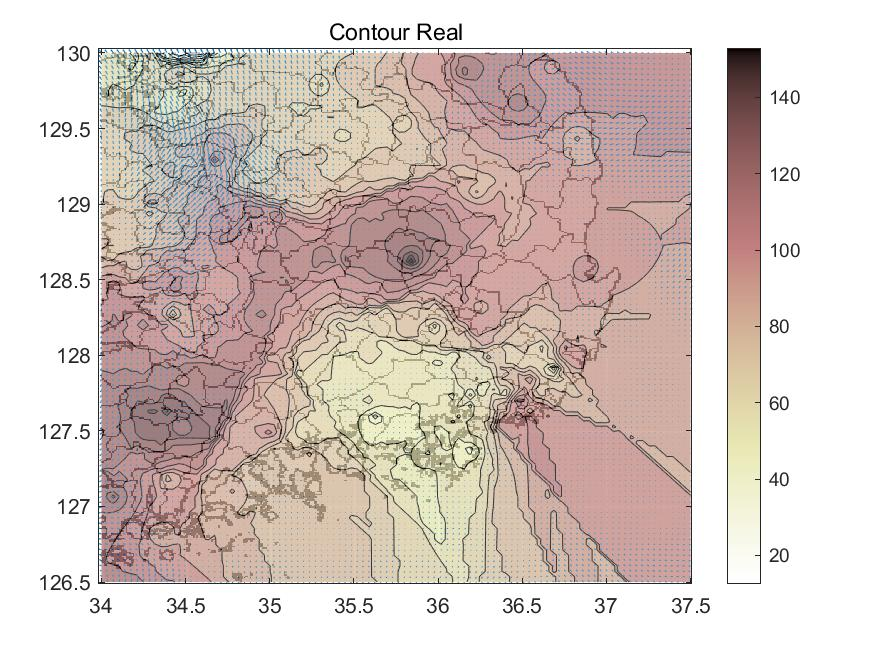
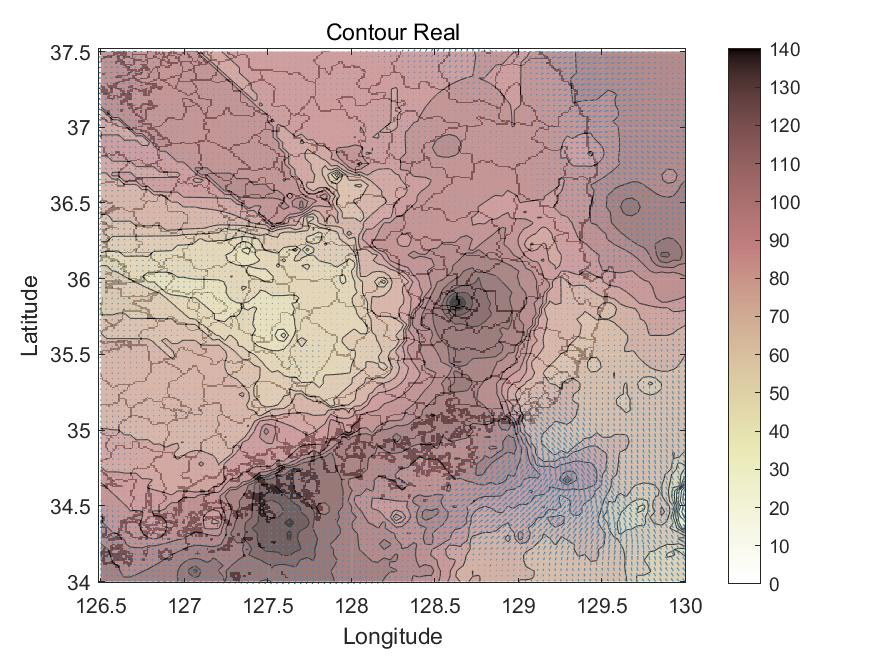
20201018

diff --git a/4_Convection-diffusion_equation/convection_diffusion_eqs.m b/4_Convection-diffusion_equation/convection_diffusion_eqs.m
@@ -1,27 +1,23 @@
 clear; clc; close all;
 
+% x, y 값 
 x=load('Latitude.txt');
 y=load('Longitude.txt');
 
-map = imread('map.jpg');
-
 x=x*133330; y=y*133330;
+% 기본 값들 넣기
+
 
 % make D size(1,23);
+%%%%%%%%%%%%%%%%%%%%%%%%%%%%%%%%%%%%%%%%%%%%%%%%%%%%%%%%%%%%%%%%%
 D=zeros(1,23);
 for ik=1:5
-    D(ik)=100;
+    D(ik)=350;
 end
-for ik=6:10
-    D(ik)=250;
-end
-for ik=11:15
+for ik=6:23
     D(ik)=500;
-end
-for ik=20:23
-    D(ik)=1000;
-end
-  
+end    
+%%%%%%%%%%%%%%%%%%%%%%%%%%%%%%%%%%%%%%%%%%%%%%%%%%%%%%%%%%%%%%%%%%
 
 
 title_D=sprintf('z_D');
@@ -31,27 +27,16 @@ h=x(1,3)-x(1,2);%dt=0.1*h^2;
 dt=0.001*((h^2/(max(max(x))-min(min(x)))));
 n=size(x,1); pxy=zeros(n);
 % return
-aa=load('z_Hour_23_made');
 
-
-
-return
-        imwrite(imind,cm,filename,'gif','Loopcount',10);
-    else
-        imwrite(imind,cm,filename,'gif','WriteMode','append')
-end
-return
-
+% 미세먼지 데이터
 pol=load('Hour_1_inter_p.txt');
 
-
+% 노이만 경계 조건
 pol(1,:)=pol(2,:); pol(n,:)=pol(n-1,:);
 pol(:,1)=pol(:,2); pol(:,n)=pol(:,n-1);
 
 mesh(y,x,pol)
 axis([y(1,1) y(100,100) x(1,1) x(100,100) 0 80])
-
-[imind cm]=rgb2ind(img,256);
 title('Air Polution')
 error=zeros(23,1);
 
@@ -59,7 +44,7 @@ filename='mesh.gif';
 
 % return;
 for ik=1:23
-    
+    ik
     u=load(sprintf('Hour_%1.1d_inter_u.txt',ik));
     u=u*0.1;
     v=load(sprintf('Hour_%1.1d_inter_v.txt',ik));
@@ -70,9 +55,7 @@ for ik=1:23
     for it=1:fix(1*60*60/dt)
         
         
-        if (mod(it,5000)==0)
-            fprintf('%-3d%d\n',ik,it);
-        end
+        it
     
         pol(1,:)=pol(2,:); pol(n,:)=pol(n-1,:);
         pol(:,1)=pol(:,2); pol(:,n)=pol(:,n-1);
@@ -92,13 +75,12 @@ for ik=1:23
         end 
         
         pol=pxy;
-        if (mod(it,10000)==0)
-        mesh(y,x,pol);
-%         title(ik);
+        if (mod(it,10000)==1)
+        mesh(x(2:n-1,2:n-1),y(2:n-1,2:n-1),pol(2:n-1,2:n-1));
         colorbar;
-        ylabel('Longitude');
-        xlabel('Latitude');
-        axis([y(1,1) y(100,100) x(1,1) x(100,100) 0 130])
+        xlabel('Longitude');
+        ylabel('Latitude');
+        axis([x(1,1) x(100,100) y(1,1) y(100,100) 0 130])
         
         drawnow;
         end
@@ -109,8 +91,6 @@ for ik=1:23
     img=frame2im(frame);
     [imind cm]=rgb2ind(img,256);
     
-    
-    
     if ik == 1
         imwrite(imind,cm,filename,'gif','Loopcount',10);
     else
@@ -120,8 +100,10 @@ for ik=1:23
     title=sprintf('z_Hour_%2.2d_made',ik);
     csvwrite(title,pol);   
     k=load(sprintf('Hour_%1.1d_inter_p.txt',ik+1));
-    error(ik)=(sum(sum((pol-k).^2))/10000)^(1/2);
+    error(ik)=(sum(sum((pol-k).^2))/10000)^(1/2)
 end
 title_error=sprintf('z_error');
 csvwrite(title_error,error);   
-error
+
+
+
